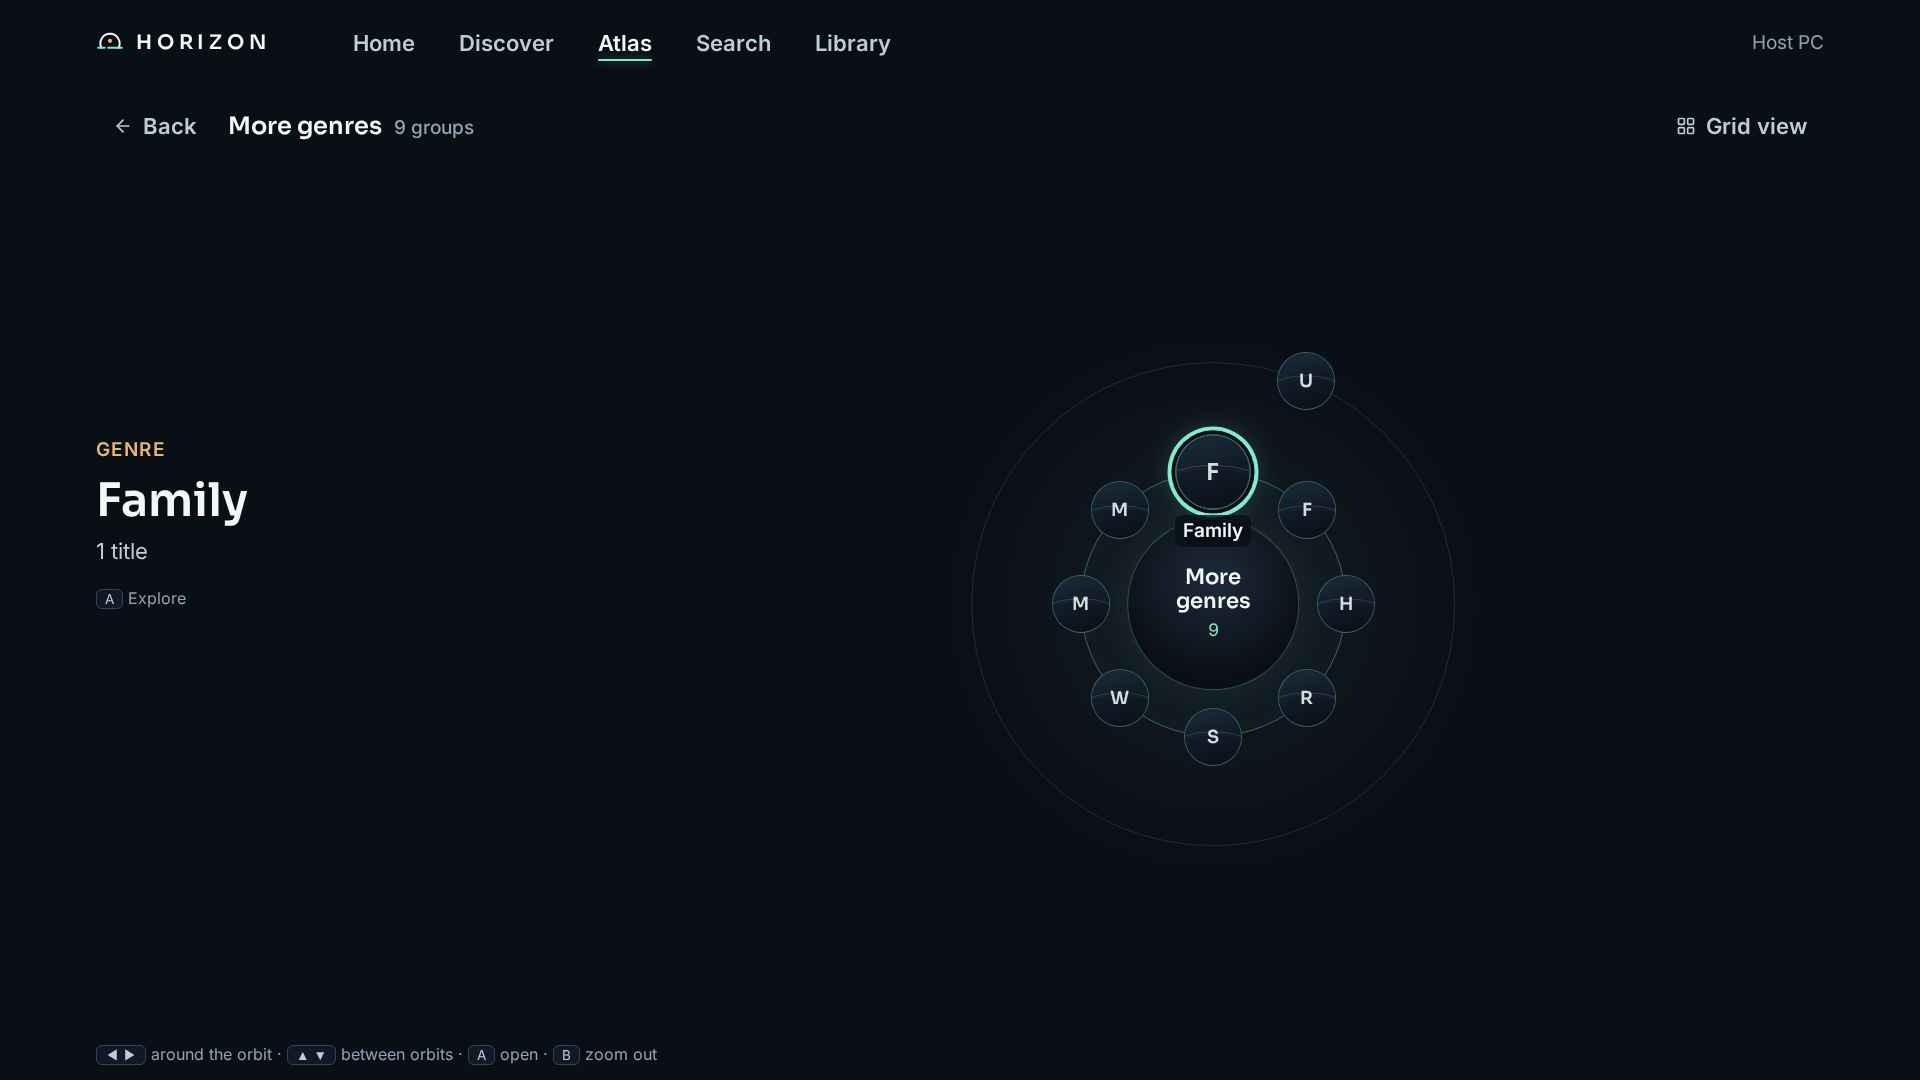
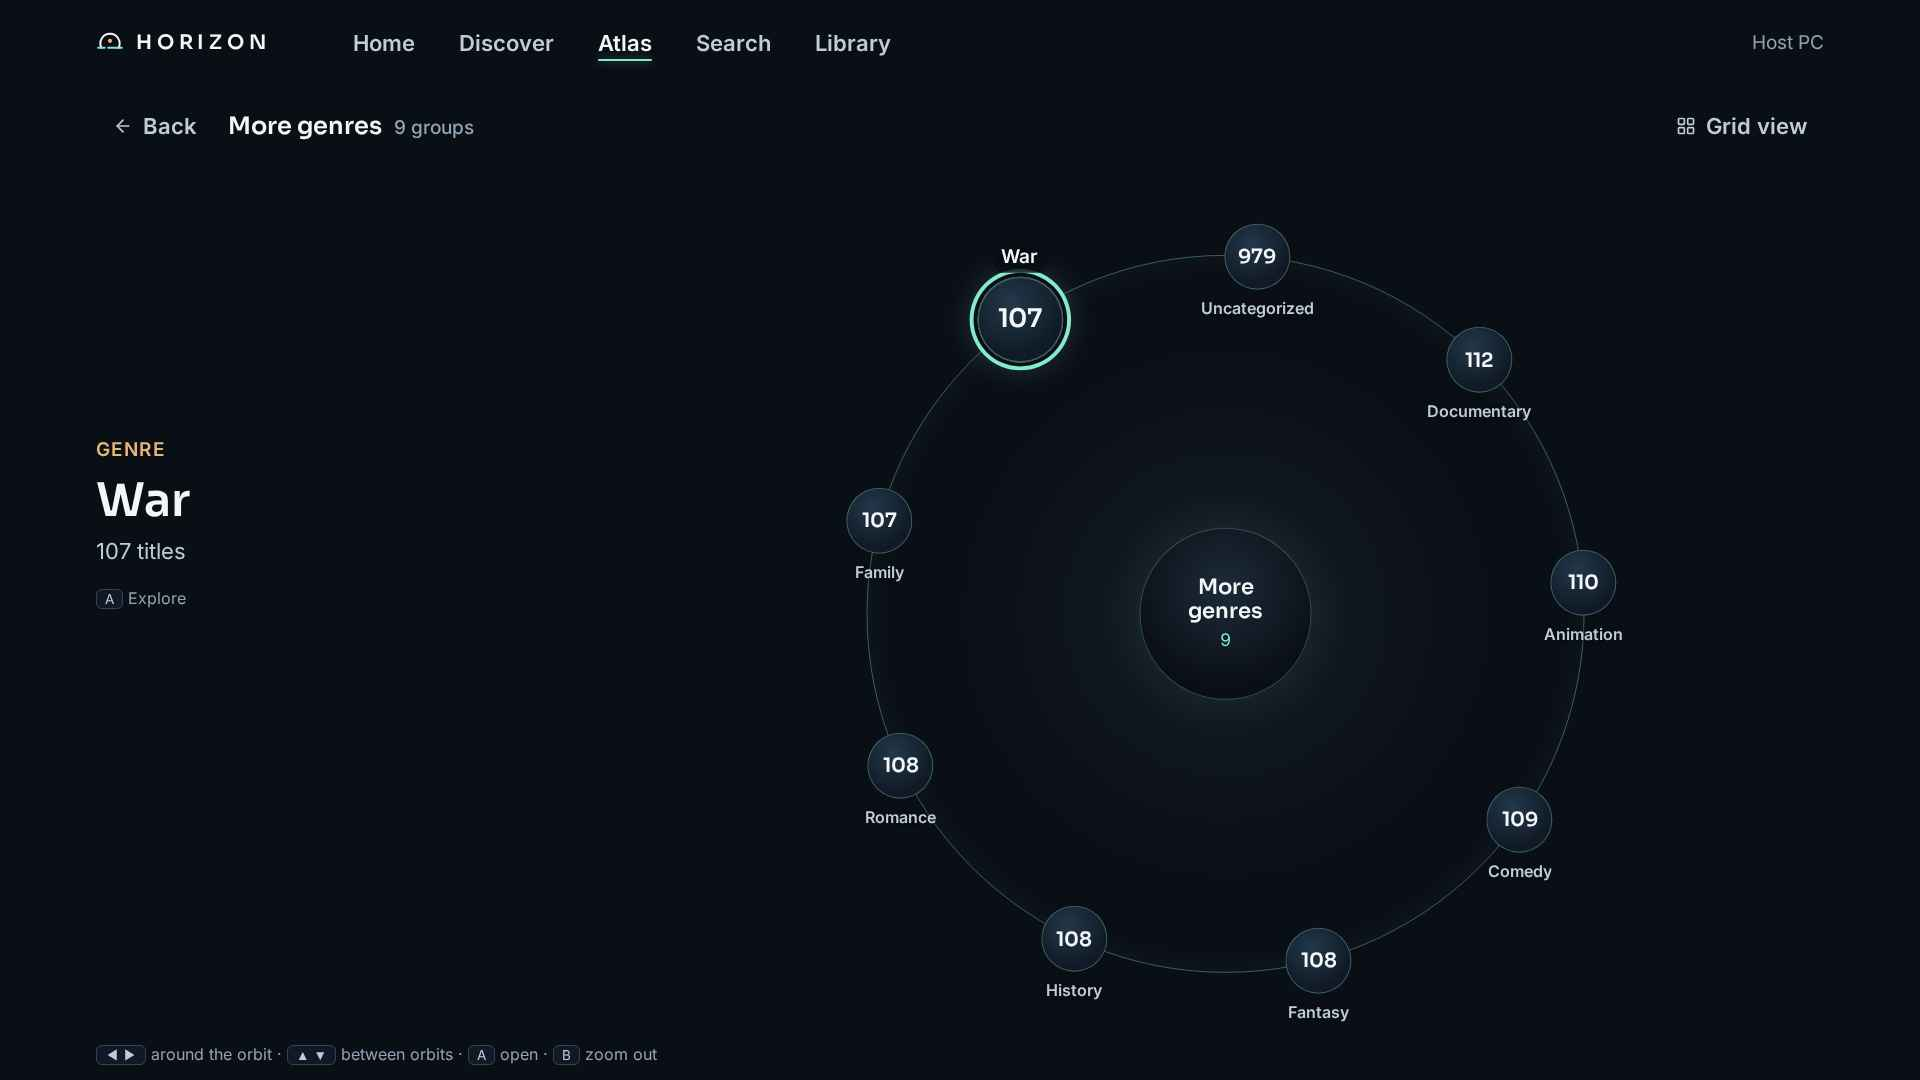
## Stage 3 final regression is done and submitted for your review (Stage 4 has not started yet)
All identified functional issues have been addressed. One automated failure was resolved after the test run and verified through a dedicated test; another cosmetic label overlap remains and will be tracked for a future update. Testing was conducted on separate temporary servers using copied media. Your preview was checked afterward and remains consistent with the previous version.

| Test suite | Automated result |
|---|---|
| Browser tests (all of Stage 3 plus the new checks) | **144 of 146 passed (98.6%)** |
| Live server tests | **31 of 31 passed** |
| Server unit tests | **185 of 185 passed** |

**Details on the 2 browser failures:**
- **Tab key escaping the Sort/Filter panels:** Previously, pressing Tab could shift focus outside an open Sort or Filter panel onto background items; this has now been fixed so Tab navigation stays within the panel. This fix was confirmed via a separate scripted check and is not included in the 144 passes.
- **Overlapping labels in crowded Atlas groups:** In Atlas groups with a higher number of items, selected item labels can overlap adjacent labels. Movement and selection functionalities work correctly; this cosmetic issue is being tracked for a future fix.

**Additional confirmations this round include:**
- **Clear Search fix:** Focus returns to the last keyboard key after using Clear Search, verified on both full and empty test environments.
[…]

diff --git a/frontend/src/discover/FilterBar.tsx b/frontend/src/discover/FilterBar.tsx
@@ -17,6 +17,13 @@ function OptionSheet({ title, children, onClose }: { title: string; children: Re
   return (
     <div className="dsheet-scrim" onClick={onClose} data-testid="filter-sheet-scrim">
       <div ref={box} className="dsheet" role="dialog" aria-modal="true" aria-label={title} data-nav-scope="modal"
+        onKeyDown={(e) => { // keep Tab / Shift+Tab inside the open sheet, like the D-pad
+          if (e.key !== "Tab") return;
+          const items = Array.from(box.current?.querySelectorAll<HTMLElement>("button") ?? []);
+          const i = items.indexOf(document.activeElement as HTMLElement);
+          e.preventDefault();
+          items[(i + (e.shiftKey ? -1 : 1) + items.length) % items.length]?.focus();
+        }}
         onClick={(e) => e.stopPropagation()} data-testid="filter-sheet">
         <div className="dsheet-head"><h2>{title}</h2>
           <button className="hbtn hbtn--quiet" onClick={onClose} data-testid="filter-sheet-close"><X size={20} /> Done</button></div>

diff --git a/docs/HORIZON_STAGE3_REPORT.md b/docs/HORIZON_STAGE3_REPORT.md
@@ -1,7 +1,57 @@
 # Horizon Stage 3 — Completion report (Discover, Search, Library Atlas)
 
-Status: **final closeout complete — awaiting your final approval**. Stage 4 has not been started.
-Date: 2026-06. QA reports: `/app/test_reports/iteration_9.json` (first full pass, 7 bugs), `iteration_10.json` (96%), `iteration_11.json` (closeout pass 1: 126/129), `iteration_12.json` (**final regression: 130/132 automated checks = 98.5%**).
+Status: **final regression complete — awaiting your final approval**. Stage 4 has not been started.
+Date: 2026-06. QA reports: `/app/test_reports/iteration_9.json` … `iteration_12.json`, and **`iteration_13.json` (final approval run)**.
+
+## Final approval run (iteration 13)
+All of this ran on **isolated temporary servers**, each with its own SQLite database, data folder and configuration, and its own copies of the media. Ports were 8771 (sample + demo copies, for the live API suite), 8772 (sample + demo + large synthetic library copies, for the browser suite) and 8773 (empty). **The Horizon preview was not opened, detached, rescanned or modified.** After testing, all three servers were shut down and `/tmp/h3iso` was deleted.
+
+| Suite | Automated result |
+|---|---|
+| Browser regression (full Stage 3 suite plus new checks; simulated D-pad) | **144 / 146 passed (98.6%)** |
+| Live server suite (`tests_live`, against isolated 8771) | **31 / 31 passed**, including the new `test_progress_readd_live.py` |
+| Server unit suite (`pytest tests`) | **185 / 185 passed** |
+
+**Browser results by area:**
+| Area | Passed |
+|---|---|
+| Search | 25/25 |
+| Atlas | 36/36 |
+| Atlas with 17–28 groups | 10/11 |
+| Discover | 27/28 |
+| Removed-title recovery | 12/12 |
+| Empty library | 11/11 |
+| Home / detail / player / Settings / reduced motion | 19/19 |
+| 4K at 3840×1920 | 4/4 |
+
+Seven first-attempt checks contained test-script mistakes: comparing ids across modes, stopping one row short, and starting from the wrong key. Six were rerun correctly and are counted. The seventh tested something outside the spec and is listed as an observation.
+
+**The 2 automated failures:**
+1. **Tab / Shift+Tab escaped an open Sort or Filter sheet** (the D-pad was already trapped). **Fixed afterwards**: Tab now cycles inside the sheet. This was verified by one targeted scripted browser check (16 Tab/Shift+Tab presses stay inside, Escape returns to the button, toggling keeps focus). That check is **not** included in the 144/146.
+2. **With 17–28 groups in an Atlas level, the focused node's enlarged label can overlap 1–2 neighbouring labels.** Unfocused layouts have no overlaps, and navigation and selection are unaffected. This is cosmetic and **tracked for later**.
+
+**Watch progress across remove and re-add**, covered by the new automated live test on isolated media:
+- A title whose file disappears is removed by a rescan.
+- When the same file is restored at the same path, its saved position (42.5 s) comes back.
+- Removing and re-adding the whole library also keeps it.
+
+Progress is keyed by the normalised file path. The title's internal id can change, but progress does not depend on it. To run the live suite on the isolated copy, the live tests now take `MC_LIVE_URL`, `MC_LIVE_SAMPLE` and `MC_LIVE_DEMO`; with none of them set, they use the same paths as before.
+
+**Sparse Atlas display:**
+| Issue | Affects navigation/readability? | Status |
+|---|---|---|
+| Group levels such as "More genres" showed only initials for unfocused nodes, so Music and Mystery looked identical | Yes, readability and selection | **Fixed**: every group node shows its count and full name |
+| Small group levels were crowded onto the tiny inner orbit, with labels covering each other | Yes, readability | **Fixed**: up to 16 groups use one wide outer orbit and 17–28 use the two outer orbits. Full pages keep three orbits. Left/Right wrap, Up exits, and Down stays at the outermost orbit (36/36 and 10/11 automated) |
+| Focused label overlapping a neighbour with 17–28 groups | No | Cosmetic, tracked |
+| Folder-group info panel shows a plain placeholder poster | No | Cosmetic, tracked |
+| Discover's Collections tab on an empty library says "No collections yet" without an Add media folder button (the other tabs have one) | No | Cosmetic, tracked |
+
+**Preview unchanged:** the preview database (all tables, the library list, every progress row and all settings) matched a snapshot taken before testing, field for field. The checksums of every file under `/app/sample_media`, `/app/test_media` and `/tmp/TEST_large` were identical before and after. The preview UI and its APIs respond normally (HTTP 200).
+
+**Kept on the platform-testing backlog:** physical Windows PCs, Xbox consoles, Xbox controllers, NAS/UNC sources, 4K televisions, and a true 3840×2160 viewport (the test browser tops out at 3840×1920).
+
+---
+*Earlier closeout rounds below, kept for history.*
 
 ## 0. Final closeout (this round)
 | Item | Result |

diff --git a/memory/PRD.md b/memory/PRD.md
@@ -78,3 +78,10 @@ Host = loopback (+Host header check); LAN devices = PIN pairing → token (cooki
 - Isolated temp servers (separate data dirs, copied media) used for empty-library + removed-title tests, then deleted; preview libraries untouched
 - QA iteration 11 (126/129) -> fixes; iteration 12 final 130/132 (98.5%), remaining bug fixed + scripted check
 - Awaiting final user approval; Stage 4 not started
+
+## Stage 3 final approval run (2026-06)
+- Isolated servers only (8771 live API, 8772 full copy, 8773 empty); preview verified identical (DB snapshot + media checksums)
+- Browser 144/146 (98.6%, iteration_13); live 31/31 (new tests_live/test_progress_readd_live.py; tests take MC_LIVE_URL/MC_LIVE_SAMPLE/MC_LIVE_DEMO); unit 185/185
+- Fixes: sheet Tab trap; sparse Atlas group levels show count+name, use outer orbits (groupRings + Sky offset)
+- Cosmetic backlog: focused label overlap at 17-28 groups, folder-group placeholder poster, empty Collections tab CTA
+- Awaiting final user approval; Stage 4 not started
